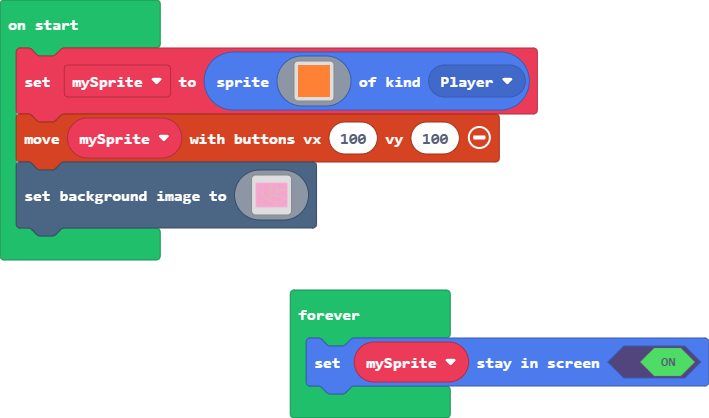
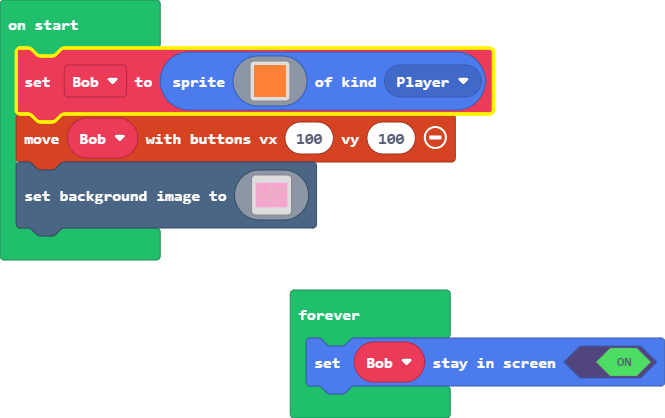
Update main.blocks, main.ts

diff --git a/main.ts b/main.ts
@@ -1,4 +1,4 @@
-let mySprite = sprites.create(img`
+let Bob = sprites.create(img`
     4 4 4 4 4 4 4 4 4 4 4 4 4 4 4 4 
     4 4 4 4 4 4 4 4 4 4 4 4 4 4 4 4 
     4 4 4 4 4 4 4 4 4 4 4 4 4 4 4 4 
@@ -16,7 +16,7 @@ let mySprite = sprites.create(img`
     4 4 4 4 4 4 4 4 4 4 4 4 4 4 4 4 
     4 4 4 4 4 4 4 4 4 4 4 4 4 4 4 4 
     `, SpriteKind.Player)
-controller.moveSprite(mySprite, 100, 100)
+controller.moveSprite(Bob, 100, 100)
 scene.setBackgroundImage(img`
     3333333333333333333333333333333333333333333333333333333333333333333333333333333333333333333333333333333333333333333333333333333333333333333333333333333333333333
     3333333333333333333333333333333333333333333333333333333333333333333333333333333333333333333333333333333333333333333333333333333333333333333333333333333333333333
@@ -140,5 +140,5 @@ scene.setBackgroundImage(img`
     3333333333333333333333333333333333333333333333333333333333333333333333333333333333333333333333333333333333333333333333333333333333333333333333333333333333333333
     `)
 forever(function () {
-    mySprite.setStayInScreen(true)
+    Bob.setStayInScreen(true)
 })
